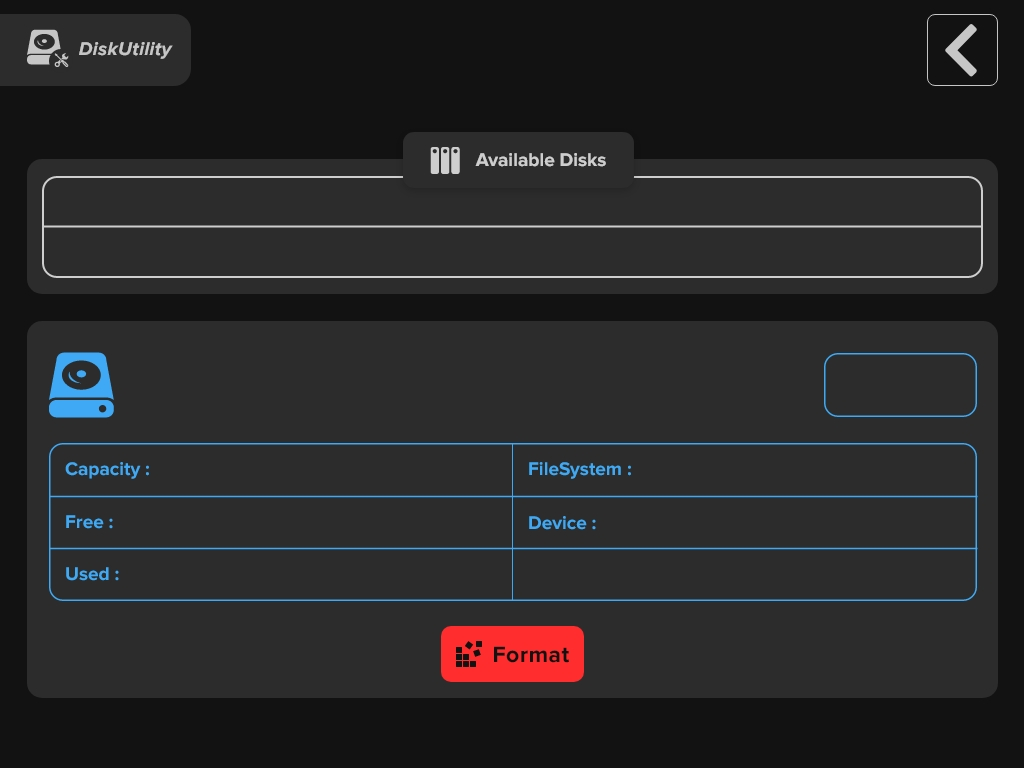
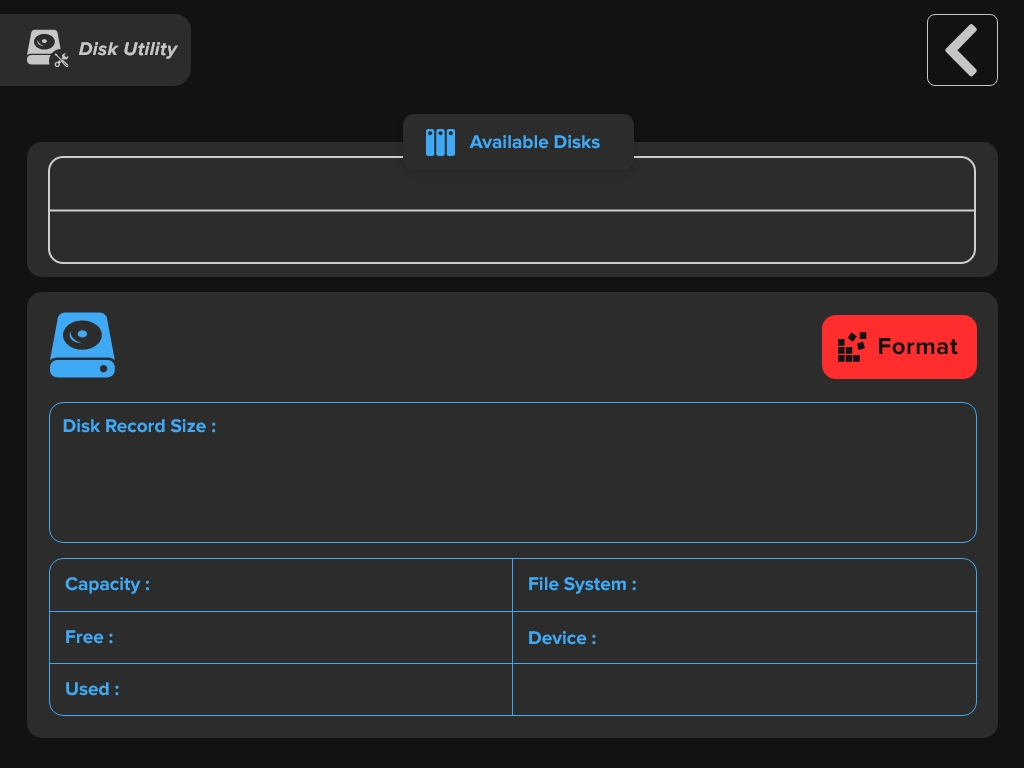
hard cant detect no formatted disk

Changed region(s): [[0.0, 0.125, 1.0, 0.9688], [0.125, 0.0312, 0.1875, 0.0938], [0.9375, 0.8438, 0.9688, 0.875]]

diff --git a/HARD_DETECTION/mainwindow.cpp b/HARD_DETECTION/mainwindow.cpp
@@ -4,7 +4,7 @@
 #include <QDebug>
 #include <QStringListModel>
 #include <mntent.h>
-
+#include <QProcess>
 
 
 MainWindow::MainWindow(QWidget *parent)
@@ -31,13 +31,14 @@ MainWindow::MainWindow(QWidget *parent)
                 ui->btn_disk_1->setText(ent->mnt_dir);
                 first_disk.str_dev = ent->mnt_fsname;
                 first_disk.str_filesys = ent->mnt_type;
-
+                first_disk.str_mp = ent->mnt_dir;
             }
             else if(i == 1)
             {
                 ui->btn_disk_2->setText(ent->mnt_dir);
                 second_disk.str_dev = ent->mnt_fsname;
                 second_disk.str_filesys = ent->mnt_type;
+                first_disk.str_mp = ent->mnt_dir;
             }
             i++;
 
@@ -56,15 +57,31 @@ MainWindow::~MainWindow()
 
 void MainWindow::on_btn_disk_1_clicked()
 {
+    QString cmd = QString("df -k %1").arg(first_disk.str_dev);
+    QProcess qproc;
+    qproc.start(cmd);
+    qproc.waitForFinished();
+    QString stdout = qproc.readAllStandardOutput();
+    qDebug() << stdout;
+
+    //qDebug() << system(cmd.toStdString().c_str());
     ui->lbl_device->setText(first_disk.str_dev);
     ui->lbl_filesys->setText(first_disk.str_filesys);
+    ui->btn_disk_1->setStyleSheet("background-color: rgb(44, 44, 44); color: rgb(63, 169, 245);border: 0px;");
+    ui->btn_disk_2->setStyleSheet("background-color: rgb(44, 44, 44); color: rgb(206,206,206);border: 0px;");
     which_btn = SELECT_FIRST;
 }
 
 void MainWindow::on_btn_disk_2_clicked()
 {
+    QString cmd = QString("df -k %1").arg(second_disk.str_dev);
+    qDebug() << cmd;
+    qDebug() << system(cmd.toStdString().c_str());
     ui->lbl_device->setText(second_disk.str_dev);
     ui->lbl_filesys->setText(second_disk.str_filesys);
+    ui->btn_disk_2->setStyleSheet("background-color: rgb(44, 44, 44); color: rgb(63, 169, 245);border: 0px;");
+    ui->btn_disk_1->setStyleSheet("background-color: rgb(44, 44, 44); color: rgb(206,206,206);border: 0px;");
+
     which_btn = SELECT_SECOND;
 }
 
@@ -76,20 +93,33 @@ sudo mkfs.ext4 "${dev}1"
  * *********************/
 void MainWindow::on_btn_format_clicked()
 {
-    QString dev;
+    QString dev = "";
+    QString mp = "";
     if(which_btn == SELECT_FIRST)
     {
         dev = first_disk.str_dev;
+        mp = first_disk.str_mp;
     }
     else if(which_btn == SELECT_SECOND)
     {
         dev = second_disk.str_dev;
+        mp = second_disk.str_mp;
     }
     if(which_btn == SELECT_FIRST || which_btn == SELECT_SECOND)
     {
         //QString data;
         //data.toStdString().c_str();
-        QString cmd = QString("umount %1").arg(dev);
-        system(cmd.toStdString().c_str());
+        //QString cmd = QString("mkfs.ext4 %1").arg(dev);
+        QString cmd = QString("umount %1").arg(mp);
+        qDebug() << cmd;
+        int st = system(cmd.toStdString().c_str());
+        qDebug() << "exec status: " << st;
+        if(st == 0)
+        {
+            cmd = QString("sudo mkfs.ext4 %1").arg(dev);
+            qDebug() << cmd;
+            int st = system(cmd.toStdString().c_str());
+            qDebug() << "exec status: " << st;
+        }
     }
 }

diff --git a/HARD_DETECTION/mainwindow.h b/HARD_DETECTION/mainwindow.h
@@ -14,6 +14,7 @@ class DevModel
 public:
     QString str_filesys;
     QString str_dev;
+    QString str_mp;
 };
 
 class MainWindow : public QMainWindow
